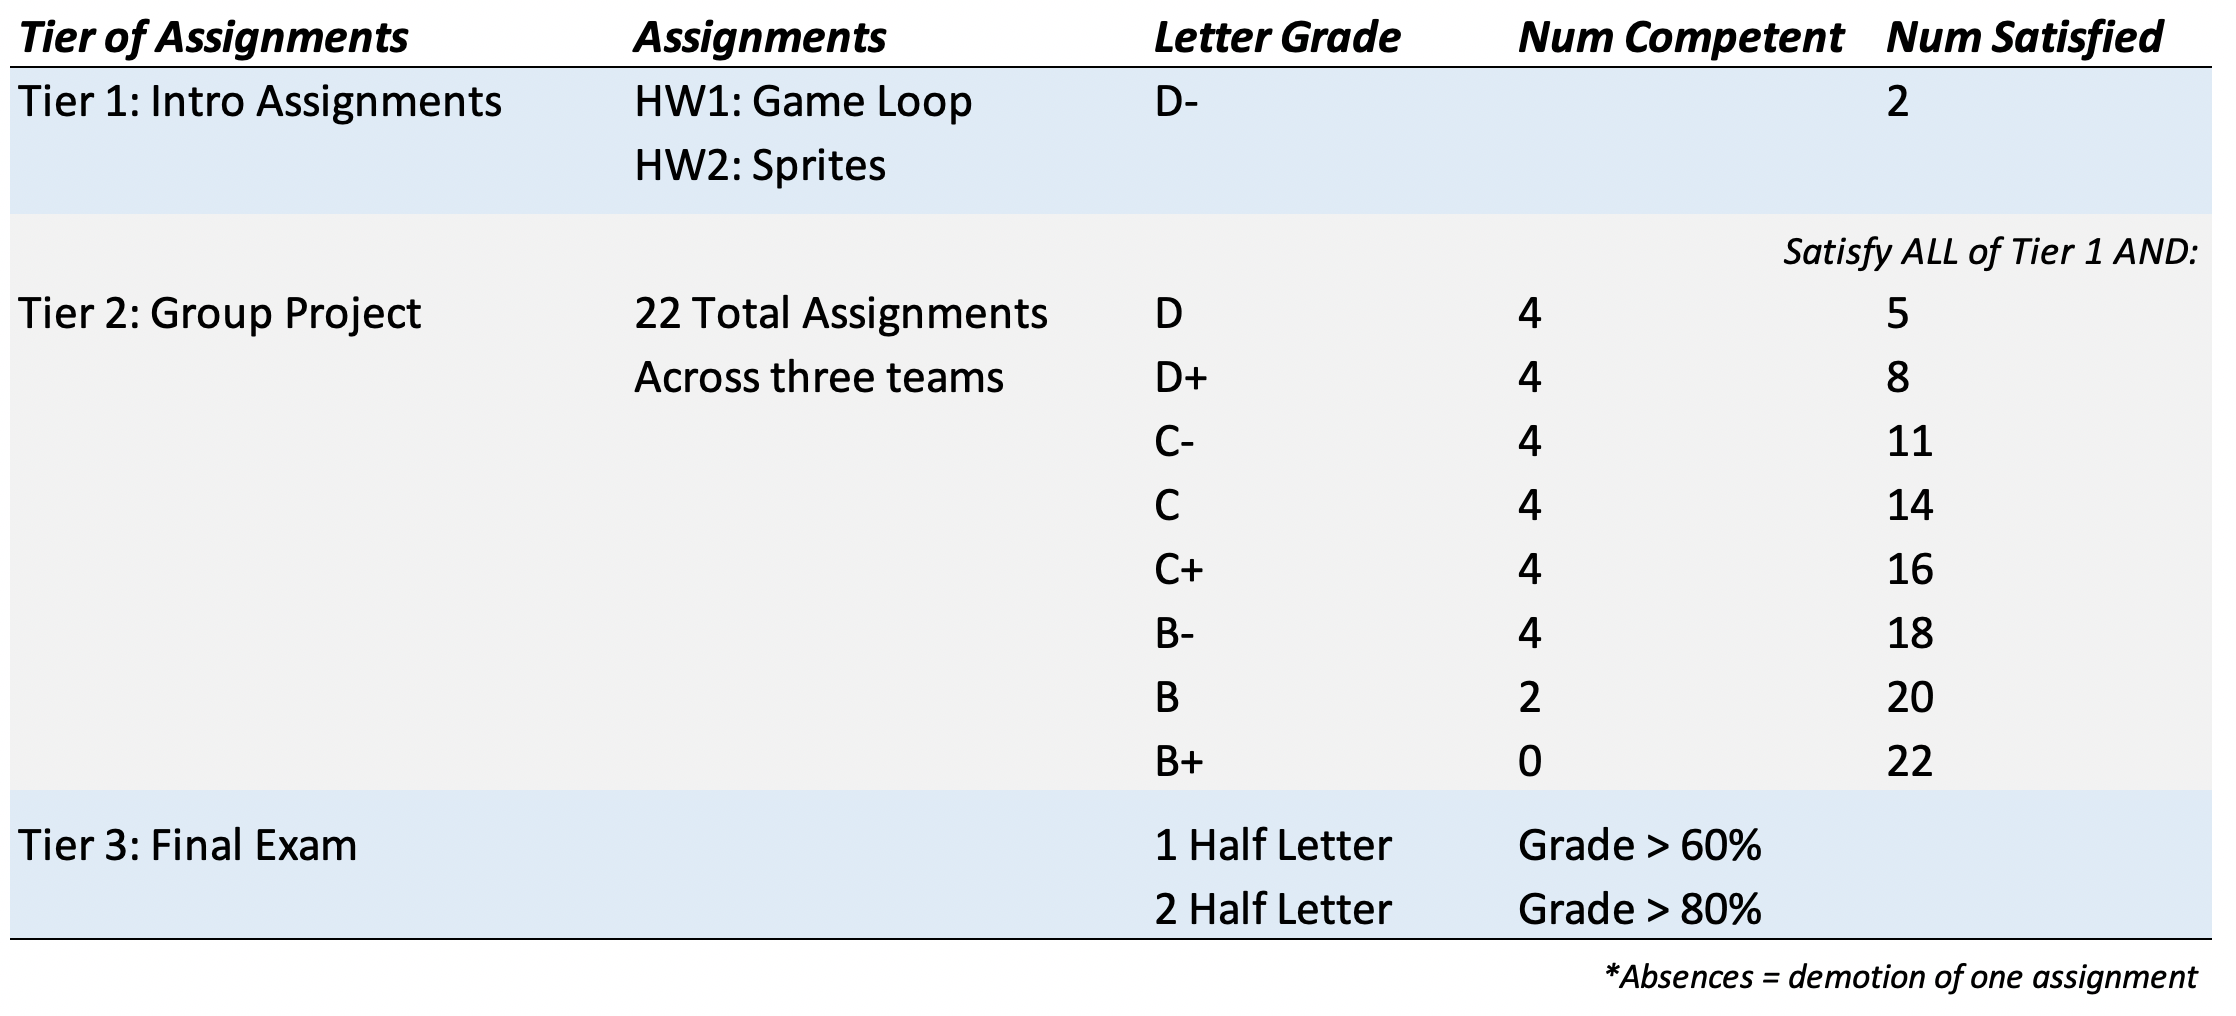
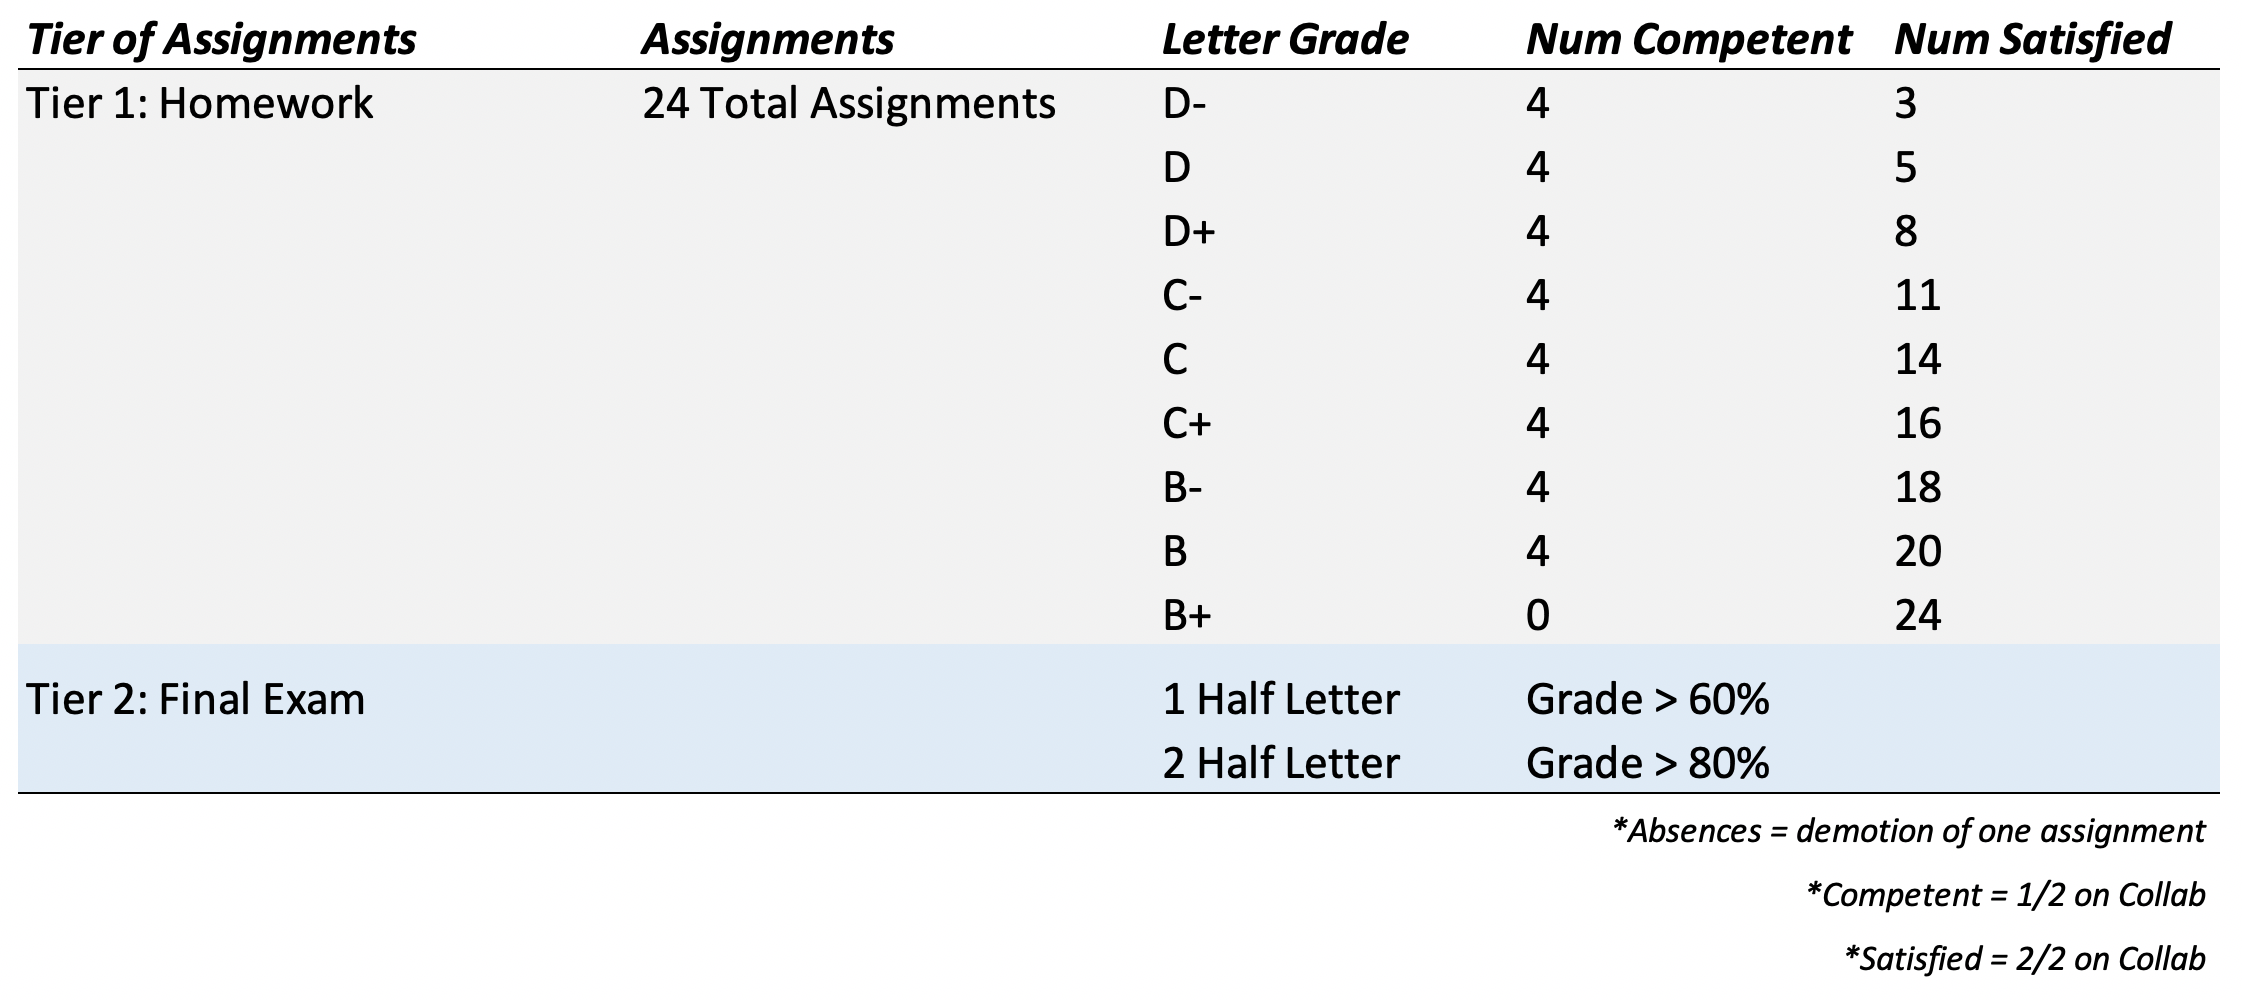
updating grading policy and a few OH

diff --git a/courseLogistics/grading.html b/courseLogistics/grading.html
@@ -13,12 +13,12 @@
 <p><a href="index.html">Main Logistics Page</a> (<a href="index.md">md</a>)</p>
 <p>This course is almost completely project based. Thus, the grading is almost completely determined by how well your group does on the project. The project has exactly 24 parts. The first two are done individually and the other 22 are done in groups (though most groups will split into three teams and do approximately 7 of the 22 themselves while working with their teammates. For each project part, one of three grades will be assigned:</p>
 <ul>
-<li><strong>Unsatisfactory:</strong> The work is not up to our standard for this course.</li>
-<li><strong>Competency:</strong> The work is not up to our standards, but is acceptable as a minimum viable submission.</li>
-<li><strong>Satisfied:</strong> The work is at or above the standard we expect for this course.</li>
+<li><strong>Unsatisfactory:</strong> The work is not up to our standard for this course. Collab grade is 0/2</li>
+<li><strong>Competency:</strong> The work is not up to our standards, but is acceptable as a minimum viable submission. Collab grade is 1/2</li>
+<li><strong>Satisfied:</strong> The work is at or above the standard we expect for this course. Collab grade is 2/2</li>
 </ul>
-<p><strong>Assignments can be resubmitted to a TA or Instructor</strong> with the following constraints: Any tier 1 homework (hw1 and hw2) can be resubmitted to a TA or Instructor. Tier 2 assignments must be initially submitted by the intended deadline for an initial grade. If that initial grade is <strong>competency</strong>, then that part may be resubmitted to raise it to satisfied. An assignment that is not submitted on time or is graded as unsatisfactory cannot be resubmitted.</p>
-<p>Your final letter grade is established by looking on the following chart at how many of the project parts were satisfied. This can raise your grade as high as a B+.</p>
+<p><strong>Assignments can be resubmitted to a TA or Instructor</strong> with the following constraints: Individual assignments (hw1 and hw2) cannot be resubmitted to a TA or Instructor after the final deadline (Feb. 7). Group assignments must be initially submitted by the intended deadline for an initial grade. If that initial grade is <strong>competency</strong>, then that part may be resubmitted to raise it to satisfied. An assignment that is not submitted on time or is graded as unsatisfactory cannot be resubmitted.</p>
+<p>Your final letter grade is established by looking on the following chart at how many of the project parts were satisfied. This can raise your grade as high as a B+. Please note that there will be group member evaluations and the results of those evaluations may lower your grade. The details of this mechanism are not specified yet.</p>
 <p>There will be a short, multiple choice final exam (about 60 questions or so). If you earn above a 60 percent, your grade rises one half letter grade. If you earn above an 80%, your grade rises two half letter grades.</p>
 <p>Attendance is taken in lecture at random. If your name is selected randomly and you are not present, then you will be poisoned. Poisoning causes one of your assignments to be demoted (from satisfied to competent). Thus, be advised to not skip lecture when possible.</p>
 <div class="figure">

diff --git a/courseLogistics/index.html b/courseLogistics/index.html
@@ -36,7 +36,7 @@
 </ul></li>
 <li>In Thornton Stacks:
 <ul>
-<li>Branden: Tue 11-1</li>
+<li>Branden: Sun 3:30-6; Wed 12-2</li>
 <li>Wyatt: Wed 5-6:30</li>
 <li>Ryan: Tue 1:45-3:15</li>
 <li>Jimmy: Wed 1:00-2:30</li>

diff --git a/courseLogistics/grading.md b/courseLogistics/grading.md
@@ -5,13 +5,13 @@ CS4730 - Game Design Grading Policy
 
 This course is almost completely project based. Thus, the grading is almost completely determined by how well your group does on the project. The project has exactly 24 parts. The first two are done individually and the other 22 are done in groups (though most groups will split into three teams and do approximately 7 of the 22 themselves while working with their teammates. For each project part, one of three grades will be assigned:
 
-- **Unsatisfactory:** The work is not up to our standard for this course.
-- **Competency:** The work is not up to our standards, but is acceptable as a minimum viable submission.
-- **Satisfied:** The work is at or above the standard we expect for this course.
+- **Unsatisfactory:** The work is not up to our standard for this course. Collab grade is 0/2
+- **Competency:** The work is not up to our standards, but is acceptable as a minimum viable submission. Collab grade is 1/2
+- **Satisfied:** The work is at or above the standard we expect for this course. Collab grade is 2/2
 
-**Assignments can be resubmitted to a TA or Instructor** with the following constraints: Any tier 1 homework (hw1 and hw2) can be resubmitted to a TA or Instructor. Tier 2 assignments must be initially submitted by the intended deadline for an initial grade. If that initial grade is **competency**, then that part may be resubmitted to raise it to satisfied. An assignment that is not submitted on time or is graded as unsatisfactory cannot be resubmitted.
+**Assignments can be resubmitted to a TA or Instructor** with the following constraints: Individual assignments (hw1 and hw2) cannot be resubmitted to a TA or Instructor after the final deadline (Feb. 7). Group assignments must be initially submitted by the intended deadline for an initial grade. If that initial grade is **competency**, then that part may be resubmitted to raise it to satisfied. An assignment that is not submitted on time or is graded as unsatisfactory cannot be resubmitted.
 
-Your final letter grade is established by looking on the following chart at how many of the project parts were satisfied. This can raise your grade as high as a B+.
+Your final letter grade is established by looking on the following chart at how many of the project parts were satisfied. This can raise your grade as high as a B+. Please note that there will be group member evaluations and the results of those evaluations may lower your grade. The details of this mechanism are not specified yet.
 
 There will be a short, multiple choice final exam (about 60 questions or so). If you earn above a 60 percent, your grade rises one half letter grade. If you earn above an 80%, your grade rises two half letter grades.
 

diff --git a/courseLogistics/index.md b/courseLogistics/index.md
@@ -29,7 +29,7 @@ CS4730 - Game Design Course Logistics
 	- Floryan: Mon and Tue 1-2:30pm
 	
 - In Thornton Stacks:
-	- Branden: Tue 11-1
+	- Branden: Sun 3:30-6; Wed 12-2
 	- Wyatt: Wed 5-6:30
 	- Ryan: Tue 1:45-3:15
 	- Jimmy: Wed 1:00-2:30
